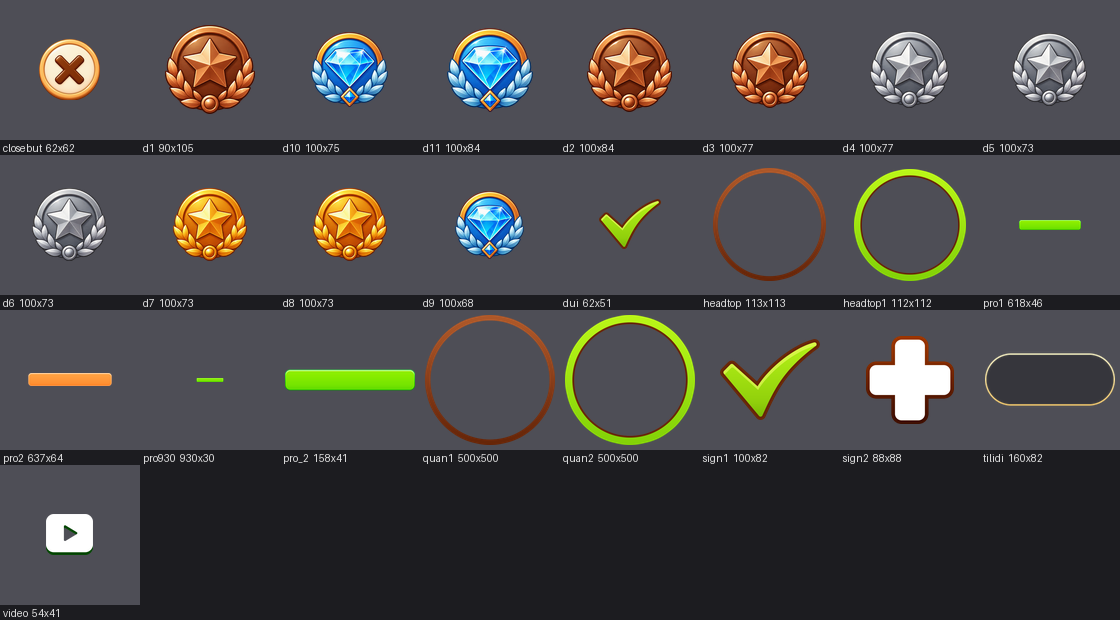
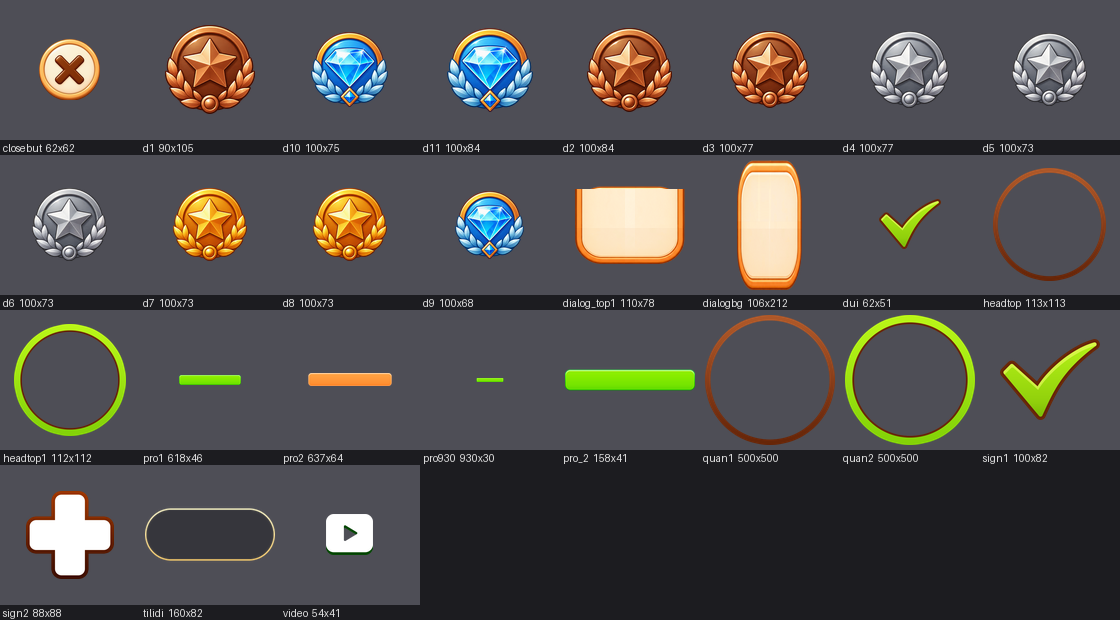
Update the status page after the layout pass
The build now follows the artist's mockups: felt behind the menu, her panda on
the loader and in the menu, her bottom plate under the buttons, bamboo in the
corner, her panel around the dialogs, and no theme button (one tile set ships).
Refreshes every screenshot, adds the settings dialog, and rewrites the "what is
left" and "what is next" sections to match.

diff --git a/index.html b/index.html
@@ -28,23 +28,29 @@
 </style>
 <div class="wrap">
 <h1>Что в игре уже наше, а что ещё чужое</h1>
-<p class="lead">Сборка <b>port-art2</b>, 08.09.2026. Скриншоты сняты из живой игры, картинки вырезаны прямо из
+<p class="lead">Сборка <b>port-art2</b>, 09.09.2026. Скриншоты сняты из живой игры, картинки вырезаны прямо из
 файлов сборки. Все числа посчитаны машиной: каждый кадр сравнён с оригиналом попиксельно.</p>
 
 <div class="card">
 <h3 style="margin-top:0">Коротко</h3>
-<p>Картинок в игре 428. Наших <b>350</b>, чужих <b>78</b>.</p>
-<div class="bar"><i style="width:82%"></i></div>
+<p>Картинок в игре 428. Наших <b>355</b>, чужих <b>73</b>.</p>
+<div class="bar"><i style="width:83%"></i></div>
 <p class="muted">Отдельных файлов (атласы, звук): наших 10 из 84. Один файл это пачка картинок,
 поэтому проценты по файлам и по картинкам разные.</p>
 </div>
 
 <h2>Как выглядит сейчас</h2>
-<p>Слева меню, справа уровень. Плитки, кнопки, монета, шестерня, подсказка, замок, стрелка назад,
-рамка аватара и надпись на загрузке - рисунки Ани.</p>
+<p>Собрано по мокапам Ани: сукно на фоне меню и уровня, панда со столиком в меню и на загрузке,
+плашка под кнопками внизу, бамбук в углу, её рамка у окон. Кнопка «Тема» убрана: набор плиток
+один, так решили 3 сентября.</p>
 <div class="two">
   <div><img class="shot" src="shots/menu.png" alt="меню"><p class="muted">Меню</p></div>
   <div><img class="shot" src="shots/level.png" alt="уровень"><p class="muted">Уровень</p></div>
+</div>
+<div class="two">
+  <div><img class="shot" src="shots/settings.png" alt="настройки"><p class="muted">Окно настроек: рамка и крестик её,
+  шапка пока прежняя</p></div>
+  <div><img class="shot" src="shots/rank.png" alt="таблица рекордов"><p class="muted">Таблица рекордов</p></div>
 </div>
 
 <h2>Аватарки: фотографии убраны</h2>
@@ -68,29 +74,32 @@
 с орнаментом - он размажется по середине):</p>
 <img src="sheets/rank_left.png" alt="кадры рангов, ещё оригинал">
 
-<h2>Третья тема плиток убрана</h2>
-<p>Раньше в окне «Тема» было три набора: «Классика», «Покер» и «Милый». Третий был целиком чужой,
-60 картинок, и рисовать его заново мы не будем. Теперь в окне два набора.</p>
-<img class="shot" src="shots/themes.png" alt="выбор темы, два набора">
+<h2>Темы плиток: остался один набор</h2>
+<p>В исходной игре было три набора плиток и окно «Тема» для выбора. По решению от 3 сентября набор
+один, поэтому кнопка «Тема» из меню убрана вместе с окном. Кадры невидимых наборов в файле тоже
+заменены, чтобы чужих пикселей не осталось.</p>
 
 <h2>Что ещё осталось чужим в интерфейсе</h2>
-<p>26 картинок. Заметные: подложка игрового поля, панда за доской, бамбук в углу,
-сетка на доске, звёзды за уровень, рука в обучении. Остальное мелочь.</p>
+<p>23 картинок. Из них десять относятся к окну «Тема», которого больше нет, их
+рисовать не надо. Заметные из оставшихся: подложка игрового поля, сетка на доске, звёзды за уровень,
+рука в обучении. Остальное мелочь.</p>
 <img src="sheets/img_left.png" alt="оставшиеся кадры интерфейса">
 
 <h2>Что из присланного Аней ещё не стоит в игре</h2>
-<p>Плитки использованы все, 55 из 55. Из интерфейса лежит без дела 19 файлов:</p>
+<p>Плитки использованы все, 55 из 55. Из интерфейса лежит без дела 13 файлов:</p>
 <img src="sheets/artist_unused.png" alt="неиспользованные файлы художницы">
-<p>Это ландшафтные фоны (игра вертикальная), лавровые ветки, панда-победа, переключатели настроек
-(в игре они другой конструкции), панда <code>bd_2</code> - её пропорция не лезет в узкую полоску
-за доской, и панель <code>main</code> для загрузки: там место под две летающие плитки, а не под
-одну картинку.</p>
+<p>Почему: горизонтальные фоны <code>bg_1</code> и <code>bg_1920x1080</code> - игра вертикальная, а
+сукно уже её; <code>win</code> и лавры <code>overbg_1/2</code> - в окне победы нет места под отдельную
+панду и ветки; <code>sub_1</code> - в игре один тип панели на все окна, он собран из <code>sub</code>;
+переключатели <code>set_on</code>, <code>set_off_1</code>, <code>set_pointer</code>,
+<code>music_icon</code>, <code>sound_icon</code> - в настройках чекбокс с галочкой, а не тумблер.</p>
 
 <h2>Что дальше</h2>
 <table>
 <tr><th>Шаг</th><th>Зачем</th></tr>
-<tr><td>Дорисовать 26 кадров интерфейса</td><td>подложка поля, панда, звёзды, сетка</td></tr>
-<tr><td>Рамки окон</td><td>нужны как отдельные части: угол, край, середина</td></tr>
+<tr><td>Шапка окна</td><td>оранжевая полоса с закруглением сверху, 131x114, тянется только по бокам</td></tr>
+<tr><td>Звёзды, сетка доски, рука обучения, подложка поля</td><td>крупные из оставшихся кадров интерфейса</td></tr>
+<tr><td>Чекбокс настроек</td><td>квадратик 60x60 и галочка к нему, вместо тумблера</td></tr>
 <tr><td>Заменить 21 звук</td><td>сейчас своя только фоновая музыка</td></tr>
 </table>
 <p class="muted">Страница для команды. Внутри есть картинки исходной игры - они показаны как раз для того,
